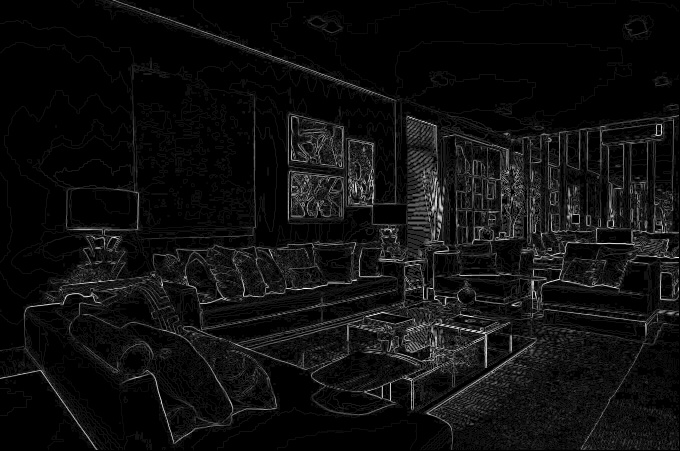
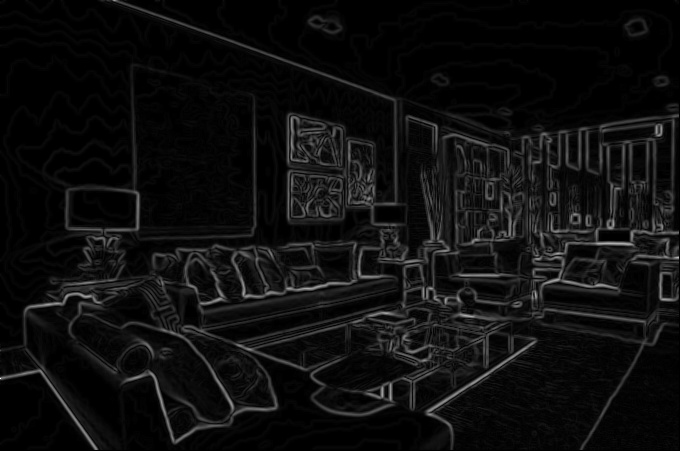
updates

diff --git a/deteccao_bordas/deteccao_bordas.cpp b/deteccao_bordas/deteccao_bordas.cpp
@@ -1,4 +1,5 @@
-<<<<<<< HEAD
+
+
 #include <opencv2/opencv.hpp>
 #include <cmath>
 #include <iostream>
@@ -30,109 +31,48 @@ Mat reduzirQuantizacaoCores(const Mat& imagem, int k) {
     return novaImagem;
 }
 
+Mat filtro_da_media2(const Mat& imgOriginal) {
+    // Clonar a imagem original para evitar alterações diretas nela
+    Mat img = imgOriginal.clone();
 
+    // Obter as dimensões da imagem
+    int altura = img.rows;
+    int largura = img.cols;
 
-Mat filtro_roberts(const Mat& imagem, const string& caminhoSalvar) {
-    // Cria uma cópia da imagem original para trabalhar nela
-    Mat imagemOriginal = imagem.clone();
+    // Iterar sobre os pixels da imagem
+    for (int i = 1; i < altura; i++) {
+        for (int j = 1; j < largura; j++) {
+            Vec3b& pixelCentral = img.at<Vec3b>(i, j); // Referência ao pixel central
 
-    // Reduz a quantização de cores para 32 cores usando K-means
-    Mat imagemReduzida = reduzirQuantizacaoCores(imagemOriginal, 32);
+            // Iterar sobre os canais (B, G, R)
+            for (int canal = 0; canal < 3; canal++) {
+                int soma = 0;
+                int count = 0;
 
-    int altura = imagemReduzida.rows;
-    int largura = imagemReduzida.cols;
-    int canais = imagemReduzida.channels();
+                // Iterar sobre a vizinhança 3x3
+                for (int x = -1; x <= 1; x++) {
+                    for (int y = -1; y <= 1; y++) {
+                        int novoI = i + x;
+                        int novoJ = j + y;
 
-    // Cria uma matriz para armazenar a imagem filtrada, com o mesmo tamanho da original
-    Mat imagemFiltrada = Mat::zeros(imagemReduzida.size(), CV_32F);
-
-    // Máscaras de Roberts
-    Mat Gx = (Mat_<float>(2, 2) << 1, 0, 0, -1);
-    Mat Gy = (Mat_<float>(2, 2) << 0, 1, -1, 0);
-
-    for (int canal = 0; canal < canais; canal++) {
-        for (int i = 0; i < altura - 1; i++) {
-            for (int j = 0; j < largura - 1; j++) {
-                Mat regiao;
-
-                // Extraindo a região de 2x2 em torno do pixel atual
-                if (canais == 1) {
-                    regiao = imagemReduzida(Rect(j, i, 2, 2)); // Escala de cinza
-                } else {
-                    vector<Mat> canaisImagem;
-                    split(imagemReduzida, canaisImagem); // Separar canais da imagem colorida
-                    regiao = canaisImagem[canal](Rect(j, i, 2, 2)); // Canal específico
+                        // Verificar se os vizinhos estão dentro dos limites da imagem
+                        if (novoI >= 0 && novoJ >= 0 && novoI < altura && novoJ < largura) {
+                            soma += imgOriginal.at<Vec3b>(novoI, novoJ)[canal];
+                            count++;
+                        }
+                    }
                 }
 
-                // Converter a região para float para realizar a multiplicação
-                Mat regiaoFloat;
-                regiao.convertTo(regiaoFloat, CV_32F);
-
-                // Cálculo de Gx e Gy
-                float gx = sum(Gx.mul(regiaoFloat))[0]; // Produto da máscara Gx pela região
-                float gy = sum(Gy.mul(regiaoFloat))[0]; // Produto da máscara Gy pela região
-
-                // Gradiente de Roberts
-                float gradiente = sqrt(gx * gx + gy * gy);
-
-                if (canais == 1) {
-                    imagemFiltrada.at<float>(i, j) = gradiente; // Atualiza valor em escala de cinza
-                } else {
-                    imagemFiltrada.at<float>(i, j) += gradiente; // Soma o gradiente por canal
-                }
+                // Calcular a média e atribuí-la ao pixel
+                int media = soma / count;
+                pixelCentral[canal] = static_cast<uchar>(media);
             }
         }
     }
 
-    // Normalização para que os valores fiquem entre 0 e 255
-    double minVal, maxVal;
-    minMaxLoc(imagemFiltrada, &minVal, &maxVal);
-    imagemFiltrada.convertTo(imagemFiltrada, CV_8U, 255.0 / maxVal);
 
-    // Salva a imagem resultante no diretório especificado
-    if (!imwrite(caminhoSalvar, imagemFiltrada)) {
-        cerr << "Erro ao salvar a imagem no caminho: " << caminhoSalvar << endl;
-    } else {
-        cout << "Imagem salva com sucesso em: " << caminhoSalvar << endl;
-    }
-
-    return imagemFiltrada;
+    return img;
 }
-
-
-
-=======
-#include <opencv2/opencv.hpp>
-#include <cmath>
-#include <iostream>
-#include <iostream>
-#include <vector>
-
-using namespace cv;
-using namespace std;
-
-
-
-// Função para reduzir a quantização de cores usando K-Means
-Mat reduzirQuantizacaoCores(const Mat& imagem, int k) {
-    Mat dados;
-    imagem.convertTo(dados, CV_32F);
-    dados = dados.reshape(1, imagem.rows * imagem.cols);
-
-    Mat labels, centros;
-    kmeans(dados, k, labels, TermCriteria(TermCriteria::EPS + TermCriteria::COUNT, 10, 1.0), 3, KMEANS_PP_CENTERS, centros);
-
-    Mat novaImagem(imagem.size(), imagem.type());
-    for (int i = 0; i < dados.rows; i++) {
-        novaImagem.at<Vec3b>(i / imagem.cols, i % imagem.cols) = Vec3b(centros.at<float>(labels.at<int>(i), 0),
-                                                                      centros.at<float>(labels.at<int>(i), 1),
-                                                                      centros.at<float>(labels.at<int>(i), 2));
-    }
-
-    
-    return novaImagem;
-}
-
 
 
 Mat filtro_roberts(const Mat& imagem, const std::string& caminhoSalvar) {
@@ -140,7 +80,13 @@ Mat filtro_roberts(const Mat& imagem, const std::string& caminhoSalvar) {
     Mat imagemOriginal = imagem.clone();
 
     // Reduz a quantização de cores para 32 cores usando K-means
-    Mat imagemReduzida = reduzirQuantizacaoCores(imagemOriginal, 32);
+    Mat imagemReduzida = reduzirQuantizacaoCores(imagemOriginal, 64);
+
+    
+    for(int i=0; i<2; i++){
+        imagemReduzida = filtro_da_media2(imagemReduzida);
+    }
+    
 
     int altura = imagemReduzida.rows;
     int largura = imagemReduzida.cols;
@@ -203,4 +149,5 @@ Mat filtro_roberts(const Mat& imagem, const std::string& caminhoSalvar) {
 }
 
 
->>>>>>> e5d7dba71182298c1e76615080a9fe858b6a21ac
+
+

diff --git a/filtros_espaciais/filtros_espaciais.cpp b/filtros_espaciais/filtros_espaciais.cpp
@@ -60,6 +60,9 @@ Mat filtro_da_media(const Mat& imgOriginal, const std::string& caminhoSalvar) {
 
 
 
+
+
+
 #include <numeric> // Include this header for std::accumulate
 
 
